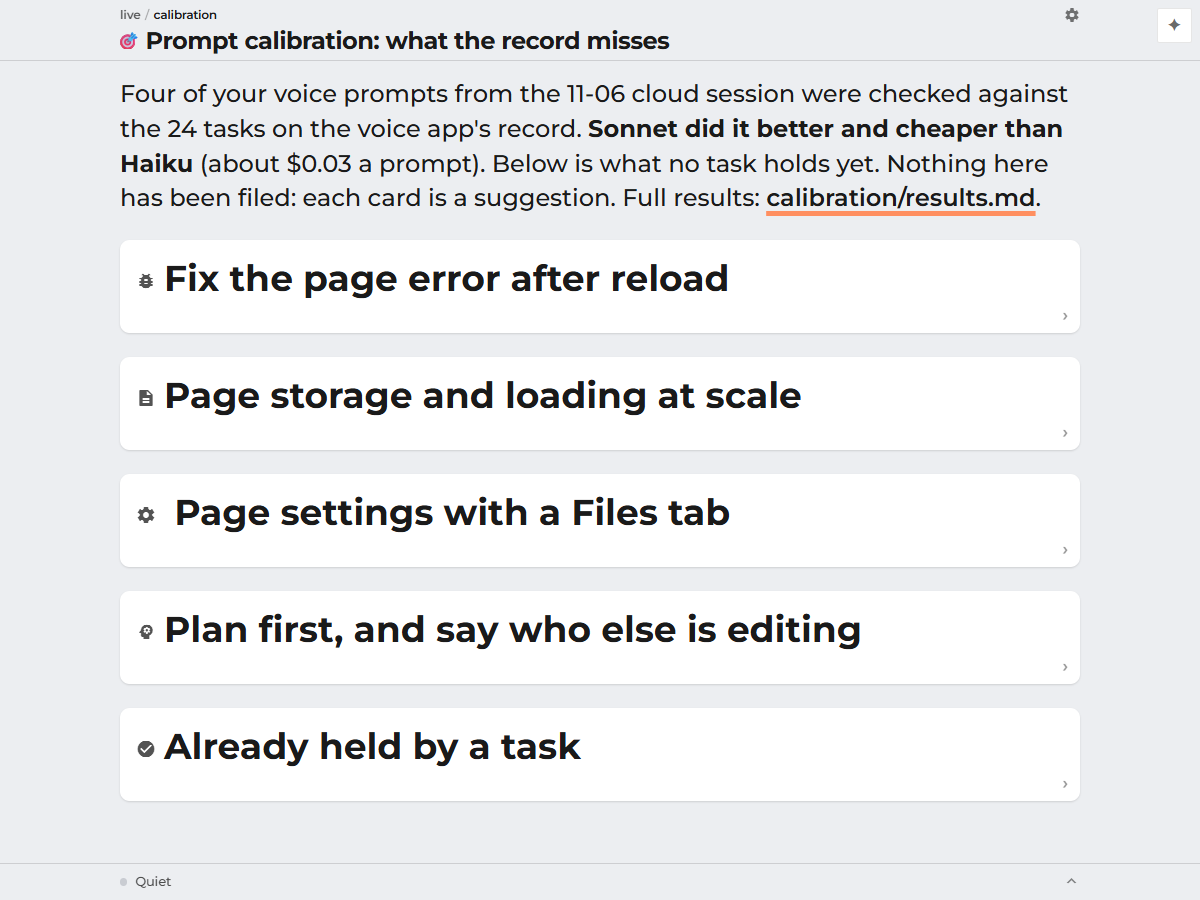
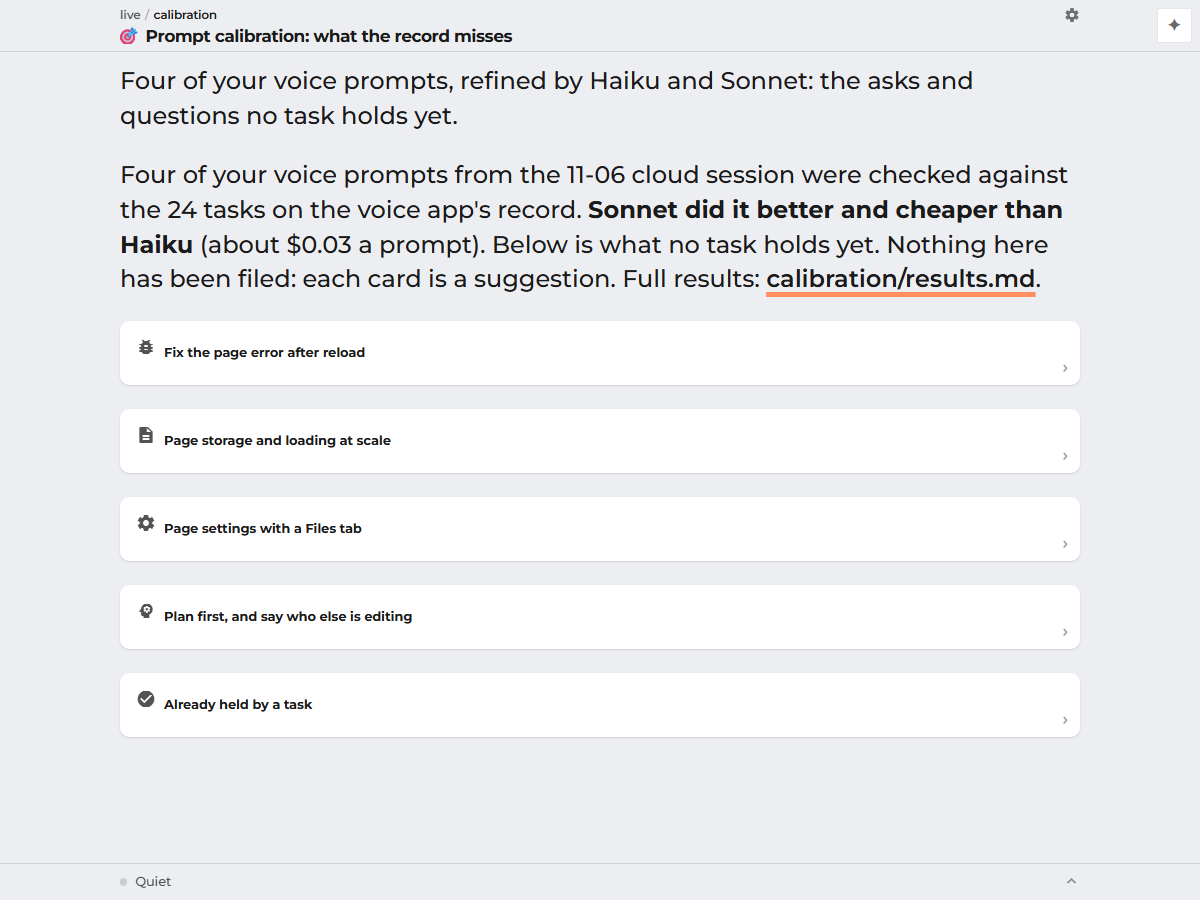
live: fix review findings — card title not actually smaller than H1, emoji gap
The review of after-400.png (mastermind-live-page) found two real defects:

1. .live-card-title's 0.8rem and .live-title's 1.05rem were both losing to
   v1/Live.css's same-specificity, same-layer .live-card-title/.live-heading
   rules (1.25em/1.5em). v1/Live.css loads globally the moment ANY /live/
   page is opened, because LivePage.pages_of dynamic-imports archive/'s and
   sessions/' page.js just to read their title, and those extend the old v1
   Live class, whose View.stylesheet() call is never scoped to v1's own
   pages. Same specificity + same layer means plain source order decided
   the winner, and v1 loaded after LivePage.css. Fixed by bumping both
   rules' specificity (.live-title.live-title, .live-card-title.live-card-title),
   which wins regardless of load order, without touching v1's files.
   Verified with getComputedStyle (a headless probe, logged on the task):
   before, h1 24px / card title 25.2-36px (card bigger, growing with
   viewport); after, h1 16.8px / card title 12.8px at both 400 and 1200.

2. A title's emoji key with no variation selector (⚙, U+2699) didn't match
   a title carrying one (⚙, +U+FE0F), leaving a stray U+FE0F as a visible
   leading gap. LivePage.icon_of_title now strips it too.

Also: the chevron's reserved bottom padding was a bare guess (2rem);
tightened to 1.5rem, re-shot at 400 and 1200 to confirm no overlap.

Session: ab2bfa61-6cb7-4f95-988c-c121da07a940

diff --git a/public/live/LivePage.css b/public/live/LivePage.css
@@ -59,7 +59,12 @@
 	.live-crumb[aria-current] { opacity: 1; font-weight: 600; }
 	.live-crumb-sep { opacity: .4; }
 	.live-head-row { display: flex; align-items: center; gap: .5rem; }
-	.live-title { margin: 0; font-size: 1.05rem; line-height: 1.25; height: 1.25em; flex: 1; min-width: 0; overflow: hidden; text-overflow: ellipsis; white-space: nowrap; }
+	/* Doubled on purpose, same reason as .live-card-title below: visiting any /live/ page dynamic-imports
+	   archive/'s and sessions/' page.js for their title (meta_of), which pulls in v1's Live.css globally; its
+	   .live-heading (same layer, same 0,1,0 specificity, loaded after this sheet) was winning by source order
+	   alone, rendering the H1 at v1's 1.5em (24px) instead of this rule's fixed 1.05rem (16.8px) — a card title
+	   then only has to clear 24px, not the real, smaller H1 size, to look "smaller". */
+	.live-title.live-title { margin: 0; font-size: 1.05rem; line-height: 1.25; height: 1.25em; flex: 1; min-width: 0; overflow: hidden; text-overflow: ellipsis; white-space: nowrap; }
 	.live-ms { font-size: .7em; opacity: .55; font-variant-numeric: tabular-nums; white-space: nowrap; }
 	.live-version { flex: none; width: auto; font: inherit; font-size: .75em; color: inherit; background: var(--live-card); border: 1px solid light-dark(#0002, #fff3); border-radius: .4em; padding: .15em .3em; }
 	.live-sub, .live-foot-text { opacity: .8; }
@@ -145,7 +150,7 @@
 	.live-card-go::after { content: ""; position: absolute; inset: 0; border-radius: inherit; }
 	/* A small corner mark, not a reserved column: the card keeps extra room only at the BOTTOM (one strip, not a
 	   whole right side), so text uses the card's full width and the chevron still never sits under it. */
-	.live-card:has(> .live-card-go) { padding-bottom: 2rem; }
+	.live-card:has(> .live-card-go) { padding-bottom: 1.5rem; }
 	.live-card-chevron { position: absolute; right: .75rem; bottom: .6rem; font-size: 1.1rem; line-height: 1; opacity: .45; pointer-events: none; }
 	.live-card :is(a:not(.live-card-go), button, input, select, label, pre, .live-code-wrap, table) { position: relative; z-index: 1; }   /* tapped, or swiped sideways, on their own */
 	/* A code block inside a card (LivePage.Preview's own members): page padding, card padding and the chevron would
@@ -178,8 +183,15 @@
 	.live-foot-removed { color: inherit; opacity: .7; }
 	/* .live-title (the page's h1) is fixed at 1.05rem, not the page's own growing em (LivePage.css above), so a card
 	   title has to be fixed too to stay clearly smaller at every width: 0.8rem reuses the framework's h4 level
-	   (framework.css's six-level type scale), as rem instead of em, rather than inventing a new number. */
-	.live-card-title { margin: 0; font-size: .8rem; line-height: 1.25; text-transform: none; letter-spacing: normal; }
+	   (framework.css's six-level type scale), as rem instead of em, rather than inventing a new number.
+	   The doubled selector is not a typo: visiting ANY /live/ page dynamic-imports archive/'s and sessions/'s
+	   page.js just to read their title (LivePage.pages_of → meta_of), and those extend the OLD v1 Live, whose
+	   Live.css registers globally (View.stylesheet adopts it site-wide, never scoped to v1's own pages) with its
+	   own single-class .live-card-title and .live-heading rules, same layer, same specificity, loaded after this
+	   sheet — so by plain source order THEY win, not this rule (styles/doc/layout-system.md documents the same
+	   trap). .live-card-title.live-card-title is specificity (0,2,0), which beats a single class regardless of
+	   load order, without touching v1's own files. */
+	.live-card-title.live-card-title { margin: 0; font-size: .8rem; line-height: 1.25; text-transform: none; letter-spacing: normal; }
 	.live-card-text, .live-sub, .live-foot-text { line-height: 1.45; }
 	:is(.live-card-text, .live-sub, .live-foot-text) .md > * { --flow: var(--live-step); }   /* the markdown inside is .flow, which spaces by --flow (set on every element): one step here too */
 	:is(.live-card-text, .live-sub, .live-foot-text) > * { margin: 0; }

diff --git a/public/live/LivePage.js b/public/live/LivePage.js
@@ -461,8 +461,10 @@ export default class LivePage extends Page {
 	// the title has no leading emoji, or has one this table does not know (kept as it is: the author's own choice).
 	static icon_of_title(title){
 		if (typeof title !== "string") return null;
+		// A key with no variation selector (⚙, U+2699) still matches a title that carries one (⚙, +U+FE0F): drop
+		// a leftover U+FE0F too, or it reads as a blank before the title (2026-11-09, the owner's phone).
 		for (const [emoji, icon] of Object.entries(this.emoji_icons))
-			if (title.startsWith(emoji)) return { icon, title: title.slice(emoji.length).replace(/^\s+/, "") };
+			if (title.startsWith(emoji)) return { icon, title: title.slice(emoji.length).replace(/^[\s]+/, "") };
 		return null;
 	}
 
